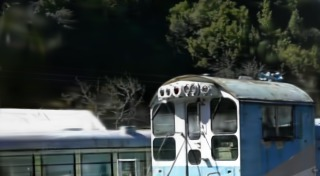
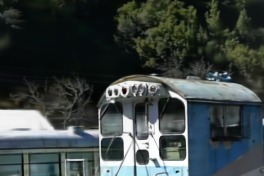
Crop train zoom to 3:2 so the three cards match

diff --git a/docs/index.html b/docs/index.html
@@ -206,7 +206,7 @@ footer p{margin:0 0 4px}
 <div class="wide teaser">
   <figure>
     <div class="pairlab"><span>HAC++</span><span>HAC++ + Ours</span></div>
-    <div class="vslot pair" data-src="static/videos/teaser.mp4?v=20261031b">
+    <div class="vslot pair" data-src="static/videos/teaser.mp4?v=20261031c">
       <div class="ph"><div><div class="play"><svg viewBox="0 0 24 24"><path d="M8 5v14l11-7z"/></svg></div><b>Teaser video</b><code>static/videos/teaser.mp4</code><br>1280×636 · muted loop</div></div>
     </div>
     <div class="vctrl" id="teaserCtrl" hidden><button type="button" class="vplay" aria-label="Pause"></button><input type="range" class="vseek" min="0" max="1000" step="1" value="0" aria-label="Seek"><span class="vtime">0:00 / 0:00</span></div>
@@ -303,9 +303,9 @@ footer p{margin:0 0 4px}
         <h3>Zoom-in comparison</h3>
         <p class="sub">Test views with ground truth. Each crop is the region where all six codecs gain the most with ResAvg, the thumbnail shows where it sits in the view, and the red box marks the window where all three codecs gain the most. PSNR is computed on the crop against the ground truth.</p>
         <div class="zoomgrid" id="zoomgrid">
-          <figure><div class="zcmp" data-scene="bonsai" tabindex="0" aria-label="bonsai zoom comparison"></div><figcaption><img class="zctx" src="static/images/zoom/bonsai_context.jpg?v=20261031b" alt="Full test view with the cropped region boxed"><span><b>bonsai</b> · glossy tray rim<br>test view 16</span></figcaption></figure>
-          <figure><div class="zcmp" data-scene="drjohnson" tabindex="0" aria-label="drjohnson zoom comparison"></div><figcaption><img class="zctx" src="static/images/zoom/drjohnson_context.jpg?v=20261031b" alt="Full test view with the cropped region boxed"><span><b>drjohnson</b> · hook shadow on a lit door<br>test view 8</span></figcaption></figure>
-          <figure><div class="zcmp" data-scene="train" tabindex="0" aria-label="train zoom comparison"></div><figcaption><img class="zctx" src="static/images/zoom/train_context.jpg?v=20261031b" alt="Full test view with the cropped region boxed"><span><b>train</b> · cab window glass<br>test view 27</span></figcaption></figure>
+          <figure><div class="zcmp" data-scene="bonsai" tabindex="0" aria-label="bonsai zoom comparison"></div><figcaption><img class="zctx" src="static/images/zoom/bonsai_context.jpg?v=20261031c" alt="Full test view with the cropped region boxed"><span><b>bonsai</b> · glossy tray rim<br>test view 16</span></figcaption></figure>
+          <figure><div class="zcmp" data-scene="drjohnson" tabindex="0" aria-label="drjohnson zoom comparison"></div><figcaption><img class="zctx" src="static/images/zoom/drjohnson_context.jpg?v=20261031c" alt="Full test view with the cropped region boxed"><span><b>drjohnson</b> · hook shadow on a lit door<br>test view 8</span></figcaption></figure>
+          <figure><div class="zcmp" data-scene="train" tabindex="0" aria-label="train zoom comparison"></div><figcaption><img class="zctx" src="static/images/zoom/train_context.jpg?v=20261031c" alt="Full test view with the cropped region boxed"><span><b>train</b> · cab window glass<br>test view 27</span></figcaption></figure>
         </div>
       </div>
     </div>
@@ -393,9 +393,9 @@ const SCENE_RATE = {train: 0.5};
   const vL=$('vL'),vR=$('vR'),cmp=$('cmp'),right=$('right'),bar=$('bar');
   let ok={L:false,R:false};
   /* asset version: bump when a video or image is replaced under the same name, so browsers drop the cached copy */
-  const AV='20261031b';
+  const AV='20261031c';
   /* red box inside each crop: [x%, y%, w%, h%, cropW, cropH]; the window where every codec gains most */
-  const ZBOX={"bonsai":[40.53,40.91,25.95,26.14,528,352],"drjohnson":[25.91,0.35,25.91,26.04,440,288],"train":[44.69,71.59,25.94,26.14,320,176]};
+  const ZBOX={"bonsai":[40.53,40.91,25.95,26.14,528,352],"drjohnson":[25.91,0.35,25.91,26.04,440,288],"train":[34.47,71.59,31.44,26.14,264,176]};
   /* Zoom sliders: one per scene, images follow the selected method. */
   const zooms=[...document.querySelectorAll('.zcmp')].map(el=>{
     const bx=ZBOX[el.dataset.scene];
@@ -413,7 +413,7 @@ const SCENE_RATE = {train: 0.5};
     return {el,iL,iR,tag:el.querySelector('.tag.l'),tagR:el.querySelector('.tag.r')};
   });
   /* crop PSNR against ground truth: [base, ours] */
-  const ZPSNR={"bonsai": {"hacpp": [23.2, 26.85], "hac": [23.3, 26.48], "pcgs": [22.8, 26.78]}, "drjohnson": {"hacpp": [33.73, 35.64], "hac": [33.54, 35.06], "pcgs": [33.05, 34.47]}, "train": {"hacpp": [22.86, 24.42], "hac": [21.78, 24.77], "pcgs": [21.14, 23.49]}};
+  const ZPSNR={"bonsai": {"hacpp": [23.2, 26.85], "hac": [23.3, 26.48], "pcgs": [22.8, 26.78]}, "drjohnson": {"hacpp": [33.73, 35.64], "hac": [33.54, 35.06], "pcgs": [33.05, 34.47]}, "train": {"hacpp": [22.81, 24.44], "hac": [21.45, 24.68], "pcgs": [21.47, 23.96]}};
   function updateZoom(){
     zooms.forEach(z=>{const sc=z.el.dataset.scene,b=`static/images/zoom/${sc}_${state.codec}`,q=(ZPSNR[sc]||{})[state.codec];z.iL.src=`${b}.jpg?v=${AV}`;z.iR.src=`${b}_ours.jpg?v=${AV}`;z.tag.textContent=q?`${NAMES[state.codec]} · ${q[0].toFixed(2)} dB`:NAMES[state.codec];z.tagR.textContent=q?`+ Ours · ${q[1].toFixed(2)} dB`:'+ Ours';});
   }
